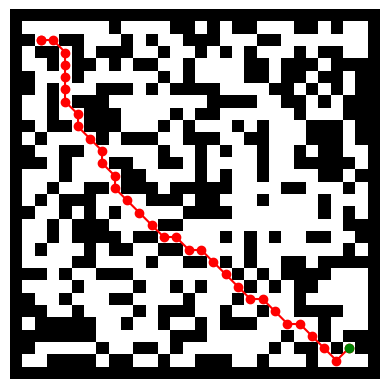
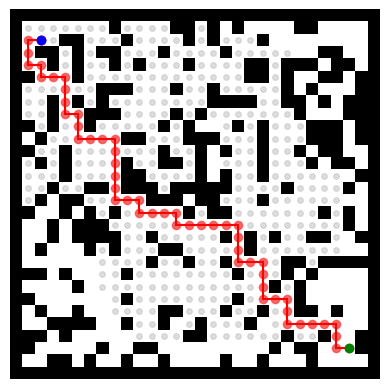
some code update and fig notes start and finish with blue and green. also note with gray any node considered

diff --git a/maze_solver.py b/maze_solver.py
@@ -4,7 +4,7 @@ from typing import List, Callable, Optional
 
 
 class Maze:
-    def __init__(self, shape: tuple = (100, 100), path_prob: float = 0.6):
+    def __init__(self, shape: tuple = (100, 100), path_prob: float = 0.7):
         self.shape = np.array(shape)
         self.wall = 1
         self.not_wall = 0
@@ -33,15 +33,18 @@ class Maze:
         for solver in self.solvers:
             solver.update_position(self.maze)
 
-    def save_as_image(self, path: list, output_dir: str) -> None:
+    def save_as_image(self, path: list, output_dir: str, considered_nodes:list=[]) -> None:
         plt.imshow(np.array(self.maze)*(-1), cmap='gray')
         plt.plot(path[0][1], path[0][0], 'ro')
         current_pos = path[0]
+        for node in considered_nodes:
+            plt.plot(node[1],  node[0],'o',alpha=0.5, color='0.75', markersize=4)
         for pos in path:
-            plt.plot(pos[1],  pos[0],'ro')
+            plt.plot(pos[1],  pos[0],'ro', alpha=0.5,)
             plt.plot([current_pos[1], pos[1]], [current_pos[0], pos[0]], 'r-')
             current_pos = pos
         plt.plot(path[-1][1], path[-1][0], 'go')
+        plt.plot(path[0][1], path[0][0], 'bo')
         plt.axis('off')
         filename = f"{output_dir}/maze_path.png"
         plt.savefig(filename, bbox_inches='tight')
@@ -60,8 +63,9 @@ class Solver:
 
 
 class AStarSolver:
-    def __init__(self, heuristic: Callable[[np.ndarray, np.ndarray], float]):
+    def __init__(self, heuristic: Callable[[np.ndarray, np.ndarray], float], diagonal_walk_enabled=True):
         self.heuristic = heuristic
+        self.diagonal_walk_enabled = diagonal_walk_enabled
         b = np.sqrt(2)
         self.dist = np.array([[b, 1, b],
                               [1, 0, 1],
@@ -83,6 +87,8 @@ class AStarSolver:
                      [+1,-1],   # 6    | 3  8  6 |
                      [ 0,+1],   # 7
                      [ 0,-1]]   # 8
+        if not self.diagonal_walk_enabled:
+            neighbors = [neighbors[idx-1] for idx in [2,7,5,8]]
         # TODO: Implement full A* logic
         while self.open:
             current = self.open.pop()   # Pick node current from open list with the lowest f(n)
@@ -114,7 +120,8 @@ class AStarSolver:
                     self.open.append(new_node)
             self.open.sort(key=lambda x:x[0]+x[1], reverse=True)
 
-        raise('no solution for maze: ' + str(maze.maze))
+        return []
+        return('no solution for maze: ' + str(maze.maze))
 
         pass
 
@@ -129,7 +136,8 @@ class AStarSolver:
             current_pos = origin_dict[str(current_pos)]
         path.append(current_pos)
         path.reverse()
-        return path
+        considered_nodes = [node[2].tolist() for node in self.closed]
+        return path, considered_nodes
 
 
 def manhattan(p1: np.ndarray, p2: np.ndarray) -> float:
@@ -139,12 +147,15 @@ def auclidean_dist(p1: np.ndarray, p2: np.ndarray) -> float:
     return float(np.sum((p1 - p2)**2)**.5)
 
 def main():
-    maze = Maze(shape=(30, 30))
+    path_prob = 0.7
+    diagonal_walk_enabled = False
+    maze_shape = (30, 30)
 
-    solver = AStarSolver(heuristic=auclidean_dist)
-    path = solver.solve(maze, maze.init_pos, maze.end_pos)
+    maze = Maze(shape=maze_shape,path_prob=path_prob)
+    solver = AStarSolver(heuristic=auclidean_dist, diagonal_walk_enabled=diagonal_walk_enabled)
+    path, considered_nodes = solver.solve(maze, maze.init_pos, maze.end_pos)
 
-    maze.save_as_image(path, output_dir="./outputs")
+    maze.save_as_image(path, output_dir="./outputs", considered_nodes=considered_nodes)
 
 
 if __name__ == "__main__":
